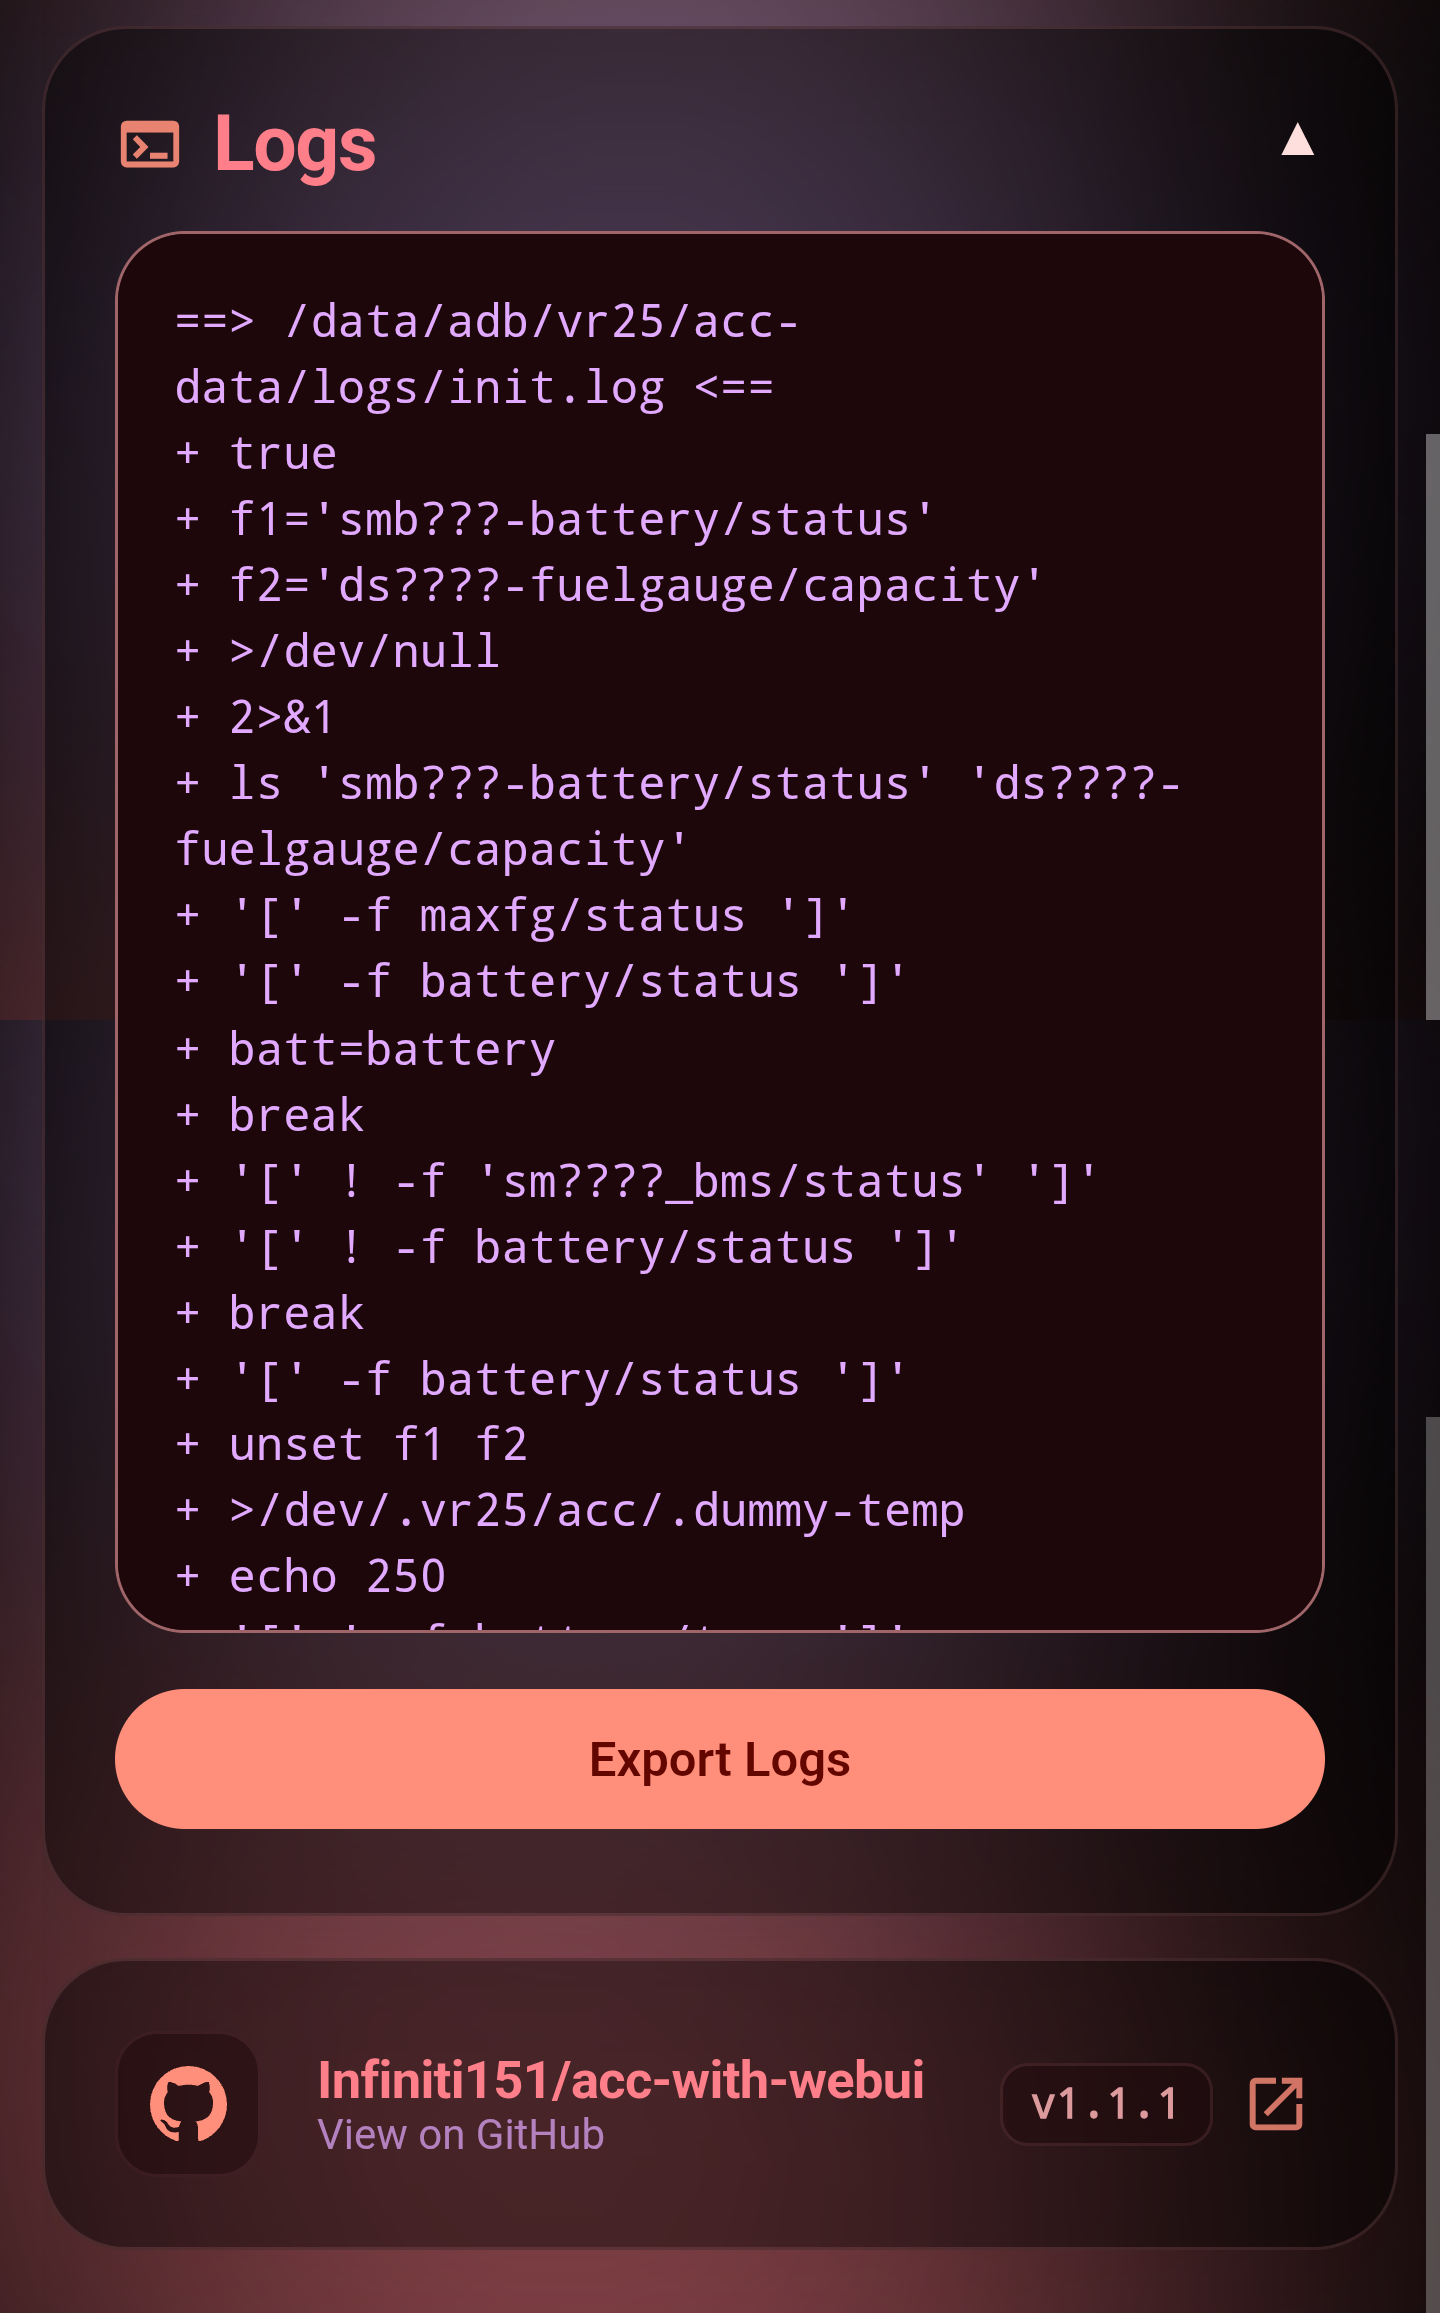
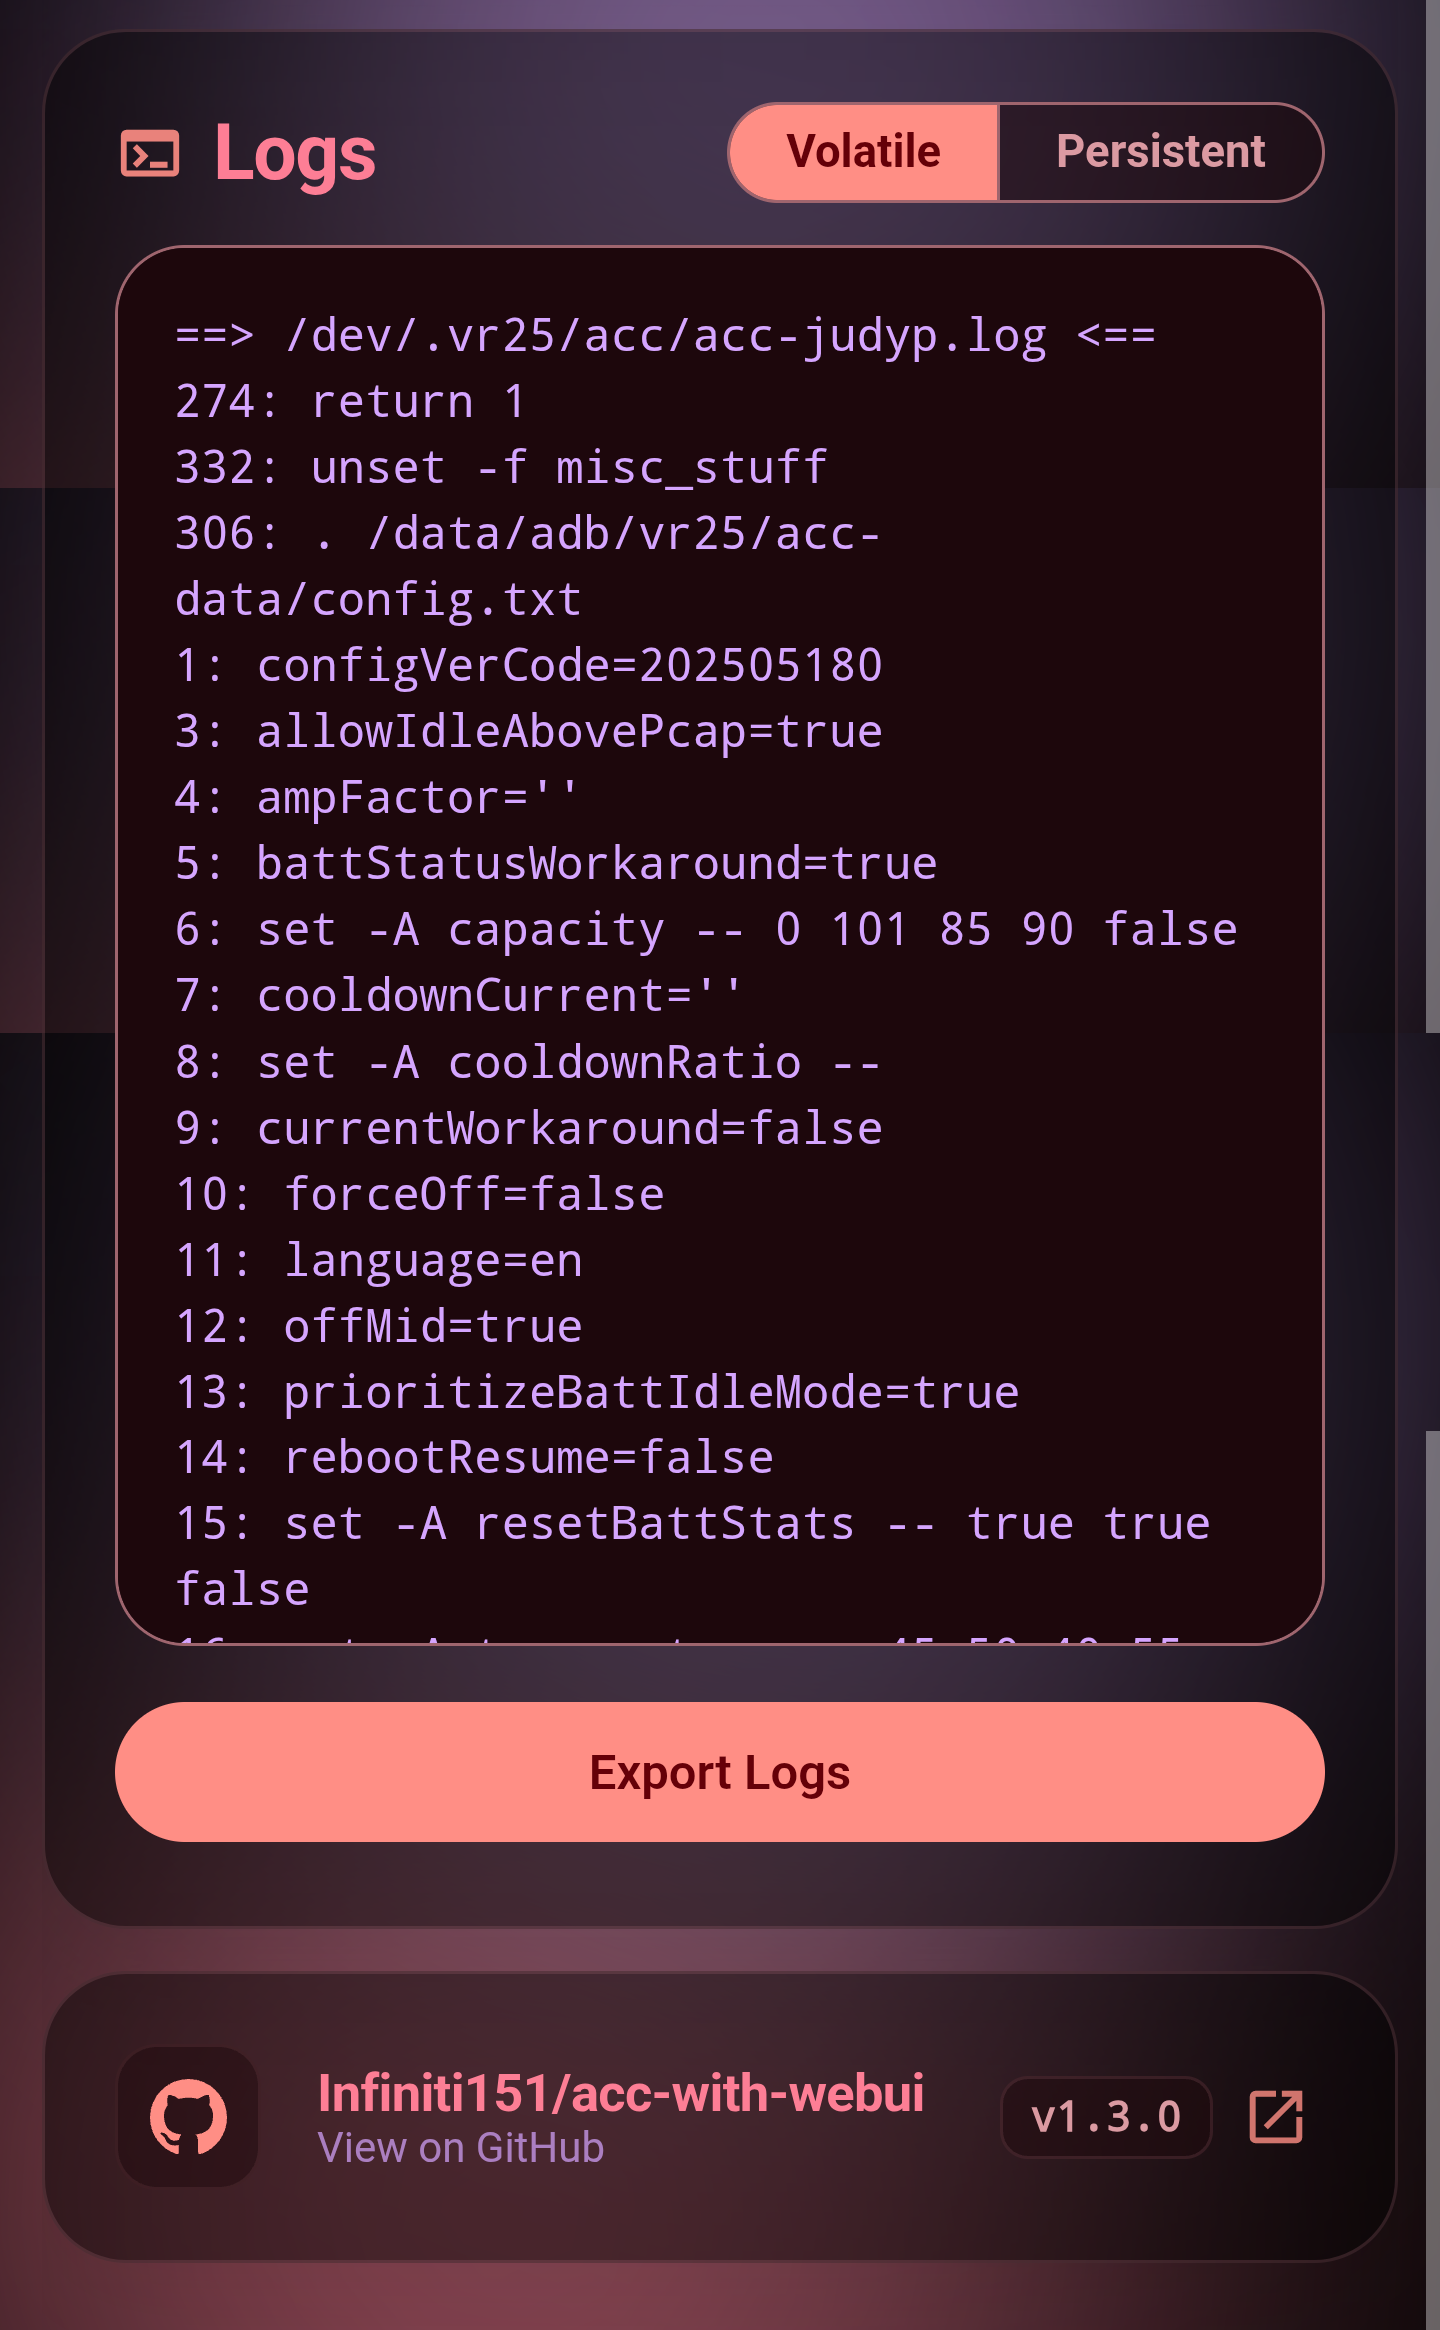
chore(release): prepare v1.4.0

diff --git a/webui/src/App.svelte b/webui/src/App.svelte
@@ -15,7 +15,7 @@
     along with this program.  If not, see <https://www.gnu.org/licenses/gpl-3.0.html>.
 -->
 <script>
-  import { onMount, onDestroy } from "svelte";
+  import { onMount, onDestroy, tick } from "svelte";
   import { fly, slide } from "svelte/transition";
   import { cubicOut } from "svelte/easing";
   import { version } from "../package.json";
@@ -117,9 +117,11 @@
 
   // Logs
   let isLogsOpen = $state(false);
+  let activeLogType = $state("");
   let logsContent = $state("Loading logs...");
   let isExportingLogs = $state(false);
   let logPollInterval = null;
+  let logContainer = $state();
 
   // Notification Banner Visibility
   let isBannerOpen = $state(false);
@@ -704,13 +706,21 @@
     }
   }
 
-  async function toggleLogs() {
-    isLogsOpen = !isLogsOpen;
-    if (isLogsOpen) {
-      logsContent = "Reading logs...";
-      startPollingLogs();
-    } else {
+  async function switchLogs(type) {
+    if (isLogsOpen && activeLogType === type) {
+      isLogsOpen = false;
       stopPollingLogs();
+    } else {
+      activeLogType = type;
+      if (!isLogsOpen) {
+        isLogsOpen = true;
+      }
+      logsContent = "Loading logs...";
+      startPollingLogs();
+      await tick();
+      if (logContainer) {
+        logContainer.scrollTop = 0;
+      }
     }
   }
 
@@ -718,8 +728,15 @@
     stopPollingLogs();
     async function poll() {
       if (!isLogsOpen) return;
-      const res = await exec("tail -n 50 /data/adb/vr25/acc-data/logs/*.log");
+
+      const path =
+        activeLogType === "volatile"
+          ? "/dev/.vr25/acc/*.log"
+          : "/data/adb/vr25/acc-data/logs/*.log";
+
+      const res = await exec(`tail -n 50 ${path} 2>/dev/null`);
       logsContent = res.stdout || "Empty.";
+
       if (isLogsOpen) {
         logPollInterval = setTimeout(poll, 2000);
       }
@@ -1591,23 +1608,31 @@
   <section class="m3-card">
     <div
       class="flex justify-between items-center"
-      onclick={toggleLogs}
-      role="button"
-      tabindex="0"
-      onkeydown={(e) => e.key === "Enter" && toggleLogs()}
-      style="cursor: pointer; -webkit-user-select: none; user-select: none;"
+      style="-webkit-user-select: none; user-select: none;"
     >
       <div style="display: flex; align-items: center; gap: 8px;">
         <span class="mi-icon">terminal</span>
         <div class="section-title">Logs</div>
       </div>
-      <div
-        id="arrow-logs"
-        style="transform: rotate({isLogsOpen
-          ? '180deg'
-          : '0deg'}); transition: transform 0.25s ease;"
-      >
-        ▼
+
+      <!-- Segmented Control Button -->
+      <div class="log-type-selector">
+        <button
+          class="log-tab-btn {isLogsOpen && activeLogType === 'volatile'
+            ? 'active'
+            : ''}"
+          onclick={() => switchLogs("volatile")}
+        >
+          Volatile
+        </button>
+        <button
+          class="log-tab-btn {isLogsOpen && activeLogType === 'persistent'
+            ? 'active'
+            : ''}"
+          onclick={() => switchLogs("persistent")}
+        >
+          Persistent
+        </button>
       </div>
     </div>
 
@@ -1625,7 +1650,7 @@
             });
         }}
       >
-        <div id="logs-content" class="log-box viewer-spacing">
+        <div class="log-box viewer-spacing" bind:this={logContainer}>
           {logsContent}
         </div>
 
@@ -2015,6 +2040,8 @@
     line-height: 1.45;
     overflow-y: auto;
     white-space: pre-wrap;
+    -webkit-user-select: text;
+    user-select: text;
   }
 
   .viewer-spacing {
@@ -3007,7 +3034,50 @@
   }
 
   /* =========================================
-     11. Keyframes
+     11. Logs Button Group
+     ========================================= */
+  .log-type-selector {
+    display: flex;
+    background: color-mix(
+      in srgb,
+      var(--md-sys-color-surface-variant) 50%,
+      transparent
+    );
+    border-radius: 100px;
+    border: 1px solid var(--md-sys-color-outline);
+    overflow: hidden;
+  }
+
+  .log-tab-btn {
+    background: transparent;
+    color: var(--md-sys-color-on-surface-variant);
+    border: none;
+    padding: 6px 16px;
+    font-size: 13px;
+    font-weight: 700;
+    cursor: pointer;
+    transition: all 0.2s cubic-bezier(0.4, 0, 0.2, 1);
+  }
+
+  .log-tab-btn.active {
+    background: var(--md-sys-color-primary);
+    color: var(--md-sys-color-on-primary);
+  }
+
+  .log-tab-btn:active:not(.active) {
+    background: color-mix(
+      in srgb,
+      var(--md-sys-color-surface-variant) 80%,
+      transparent
+    );
+  }
+
+  .log-tab-btn:not(:last-child) {
+    border-right: 1px solid var(--md-sys-color-outline);
+  }
+
+  /* =========================================
+     12. Keyframes
      ========================================= */
   @keyframes m3-spin {
     0% {

diff --git a/changelog-webui.md b/changelog-webui.md
@@ -1,3 +1,11 @@
+### v1.4.0 (10300) - 2026-09-15
+
+WebUI 🎛 ->
+- Added volatile logs (`/dev/.vr25/acc/*.log`) to `Logs` section.
+- Moved existing logs (`/data/adb/vr25/acc-data/logs/*.log`) under persistent logs.
+- Added a button to select volatile/persistent logs.
+- Added text selection in logs viewer.
+
 ### v1.3.0 (10300) - 2026-09-13
 
 WebUI 🎛 ->
